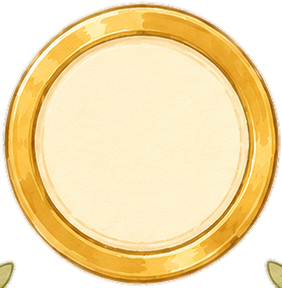
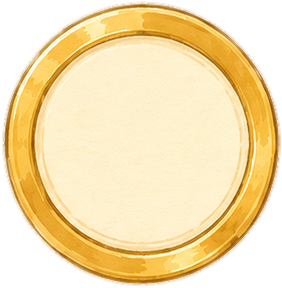
fix(level-dialog): clean ring leaves, soften frame edge, share button badge
- Ring: drop the two stray laurel-leaf fragments that bled into level_ring.png
  at the bottom corners (slice-bleed from the wreath art). New re-runnable tool
  clean_level_ring.py keeps only the ring's main alpha blob. Re-baked level_ring@512.
- Frame: route level_frame through clean_tex_path (defringe + alpha-feather) like
  every other sprite, instead of raw load() — its outer edge was a hard binary cut.
  max_dim 1024 keeps full res so the nine-patch slice margins stay exact. Baked
  level_frame@1024.
- Button: register level_btn.png in the shared BADGES registry as "level green" and
  have the Got it / Collect button reference it, so the green level background is a
  first-class selectable shared-button option (surfaces in the workbench badge dropdown).

Changed region(s): [[0.9362, 0.875, 1.0, 1.0], [0.0, 0.9062, 0.0567, 1.0]]

diff --git a/games/grove/tools/clean_level_ring.py b/games/grove/tools/clean_level_ring.py
@@ -1,0 +1,68 @@
+#!/usr/bin/env python3
+"""Remove the two stray laurel-leaf fragments that bled into level_ring.png at the bottom-left
+and bottom-right corners when the ring was sliced off lvls.png (slice-bleed from the neighbouring
+wreath art, same failure mode as crop_level_badges.py's bottom blobs). The medallion already draws
+its own laurel wreath BEHIND the ring (Kit.level_medallion), so these fragments are pure noise that
+read as "dangly leaves" poking out under the gold ring.
+
+Deterministic: keeps ONLY the largest connected alpha component (the gold ring disc) and clears every
+other island to fully transparent. Idempotent — re-running on the cleaned file is a no-op. Re-run if
+level_ring.png is ever re-sliced. Pure PIL (no scipy), 8-connected to match the kit's defringe kernel.
+"""
+import os
+import sys
+from collections import deque
+from PIL import Image
+
+RING = os.path.normpath(os.path.join(
+    os.path.dirname(__file__), "..", "assets", "ui", "kit", "level_ring.png"))
+ALPHA_MIN = 30  # a pixel counts as "content" at/above this alpha (matches the CC scan used to find the leaves)
+
+
+def _largest_component(alpha, w, h):
+    """Return a set of pixel indices belonging to the largest 8-connected island of alpha >= ALPHA_MIN."""
+    seen = bytearray(w * h)
+    best = []
+    for start in range(w * h):
+        if seen[start] or alpha[start] < ALPHA_MIN:
+            continue
+        comp = []
+        q = deque([start])
+        seen[start] = 1
+        while q:
+            p = q.popleft()
+            comp.append(p)
+            px, py = p % w, p // w
+            for dy in (-1, 0, 1):
+                for dx in (-1, 0, 1):
+                    if dx == 0 and dy == 0:
+                        continue
+                    nx, ny = px + dx, py + dy
+                    if 0 <= nx < w and 0 <= ny < h:
+                        n = ny * w + nx
+                        if not seen[n] and alpha[n] >= ALPHA_MIN:
+                            seen[n] = 1
+                            q.append(n)
+        if len(comp) > len(best):
+            best = comp
+    return set(best)
+
+
+def main(path=RING):
+    im = Image.open(path).convert("RGBA")
+    w, h = im.size
+    px = im.load()
+    alpha = im.getchannel("A").tobytes()
+    keep = _largest_component(alpha, w, h)
+    cleared = 0
+    for i in range(w * h):
+        if alpha[i] >= ALPHA_MIN and i not in keep:
+            px[i % w, i // w] = (0, 0, 0, 0)
+            cleared += 1
+    im.save(path)
+    print("cleaned %s — kept %d-px ring, cleared %d stray-leaf px" % (
+        os.path.basename(path), len(keep), cleared))
+
+
+if __name__ == "__main__":
+    main(sys.argv[1] if len(sys.argv) > 1 else RING)